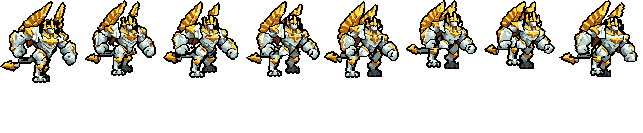
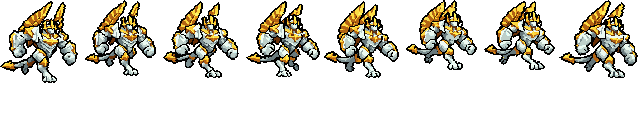
league_galio run: Codex redraws the legs (tools/art/pack_galio_run.py, RUN_PROMPT.md); Codex's first run until then
Every run leg built from the idle's standing legs read as deformed (bone lines, pasted parts, row shear, whole legs
slid - 「腿部变形？」「还是变形啊」「不还是变形？」「看不到这里变形吗」): standing legs moved about are still standing
legs. pack_galio_run.py packs the 8 run frames with the legs taken away, guide skeletons of both legs alternating (red
near / blue far: hip - knee - hock - toe, 8 phases, the far leg 4 on, a row higher), Codex's own near leg boxed as the
leg to draw and league_alistar's run as the beast-leg reference -> dist/galio_packs/galio_run_pack.zip. rig_galio.py
keeps the pack's cut (RUN_CUT / RUN_KEEP / RUN_TAILX, to_can) and drops run_legs, so the sheet carries Codex's first run
until the redo comes back; ppu_hd --check clean.

diff --git a/tools/art/rig_galio.py b/tools/art/rig_galio.py
@@ -16,7 +16,7 @@ one pixel a square). Here, for every frame:
     them, knuckle creases cut in (Codex's silhouette kept, no ground showing round a smaller fist);
   * idle = the design breathing (the upper body BREATH rows up over the legs and the tail), hit = the design moved 2 and
     1 squares back.
-Then the run's legs are redrawn (run_legs: Codex's never crossed) and every frame is brought down twice: for the 1x
+Then every frame is brought down twice: for the 1x
 sheet (down: 2 x 2 blocks, the face kept) and for the game (dense: 1.5 squares a game pixel, pixel_down.pixelate),
 written to assets/source/ppu/galio_<tag>.png + .json (ppu_hd.py's drawn strips; python tools/art/ppu_hd.py --hero galio
 then adds the hd_ / lo_ tags). Drawn at PPU 2.0 (76 squares crown to soles = 38 game rows, 52 with the wings); shown at
@@ -26,7 +26,6 @@ then adds the hd_ / lo_ tags). Drawn at PPU 2.0 (76 squares crown to soles = 38 
 """
 import argparse
 import io
-import math
 import json
 import os
 import subprocess
@@ -42,7 +41,6 @@ sys.path.insert(0, os.path.join(ROOT, ".claude", "skills", "tfm2-hero-mod", "scr
 sys.path.insert(0, HERE)
 import design_galio_hd as DG  # noqa: E402
 import pixel_down as PD  # noqa: E402
-import rigkit as K  # noqa: E402
 import strips as G  # noqa: E402
 
 SRC = os.path.join(ROOT, "assets", "source", "galio")
@@ -390,110 +388,19 @@ def down(can):
 
 
 # ------------------------------------------------------------------------------------------------ the run's legs
-# Codex's run kept the light leg forward and the dark one back in all 8 frames (the user: 「走路没有交叉步」). Legs drawn
-# along bones read as foreign legs (「腿部变形？」「还是变形啊 你不自己review的吗」), and the design's legs slanted by row
-# shear were deformed too (「不还是变形？」), so the run steps on the design's own two legs exactly as the idle has them
-# (thighs, gold knee guards, shins, the clawed foot), each moved whole - a few px forward and back, lifted as it swings
-# - as the approved heavy runs do (league_braum, league_nautilus, league_gragas, league_alistar: leg shapes kept, never
-# turned); the near foot mirrored (claws forward) and the far leg on the same foot a step darker, the far leg four
-# phases on and drawn first, the outline closed where the cut took it; Codex's upper body, fists and tail kept over
-# them, the tail carried to the hips. Numbers in game pixels from the pivot (x right, y down); PPU squares each.
-RUN_CUT = -2                     # rows from RUN_CUT down are redrawn (the legs, the tail's root) ...
+# Codex's run kept the light leg forward and the dark one back in all 8 frames (the user: 「走路没有交叉步」). Every leg
+# built here from the idle's standing legs read as deformed (bone lines, pasted parts, row shear, whole legs slid:
+# 「腿部变形？」「还是变形啊」「不还是变形？」「看不到这里变形吗」), so Codex redraws the legs of the 8 run frames, alternating
+# (tools/art/pack_galio_run.py, assets/source/galio/RUN_PROMPT.md); until then the run is Codex's first one. The
+# pack's cut: Codex's upper body kept above game row RUN_CUT, the fists and the tail below it.
+RUN_CUT = -2                     # rows from RUN_CUT down are the legs ...
 RUN_KEEP = (9, 0, -15, -1)       # ... but the front fist (right of 9, down to row 0) and the back one (left of -15, to -1)
-RUN_TAILX = -13                  # Codex's tail kept left of this column
-RUN_LEGS = {"near": [(66, 81, 35, 50), (82, 95, 35, 47), (96, 103, 28, 48)],    # design rows r0..r1, columns c0..c1
-            "far": [(66, 81, 51, 64), (82, 95, 48, 64), (96, 103, 49, 71)]}
-RUN_ANKLE = {"near": 95, "far": 96}   # the design row from which the foot moves whole
-RUN_AXIS = 40                    # the near shin's middle column: its foot mirrored about it
-RUN_FAR_FOOT = (15, -1)          # the far leg's foot: the near one (its own is a dark lump with a white speck at this
-                                 # size) moved under the far shin and a row up, a step darker (RUN_DARKER)
-RUN_DARKER = {(236, 251, 241): (190, 208, 202), (244, 250, 246): (190, 208, 202), (190, 208, 202): (124, 143, 145),
-              (149, 169, 168): (103, 120, 123), (124, 143, 145): (103, 120, 123), (103, 120, 123): (60, 73, 78)}
-RUN_RING = 72                    # the legs' own outline ring from this design row down (above it the body covers them)
-# each leg's step over 8 phases, game px from its place in the idle: (x, lift) - planted ahead and sliding back under
-# him (0-4), lifted and carried forward (5-7); the far leg 4 phases on. Whole legs moved, never slanted: the approved
-# heavy runs (league_braum, league_nautilus, league_gragas, league_alistar) step their legs a few px, shapes kept
-RUN_PH = [(3.0, 0), (1.5, 0), (0.0, 0), (-1.5, 0), (-3.0, 0), (-2.0, 1.5), (0.0, 2.5), (2.0, 1.5)]
+RUN_TAILX = -13                  # and the tail left of this column
 
 
 def to_can(x, y):
     """Game pixels from the pivot -> canvas coordinates (the pivot square's corner: down()'s 1x grid)."""
     return PIV_X - 0.5 + PPU * x, SOLE - FEET * PPU + PPU * y
-
-
-def run_pieces():
-    """The design's two legs on the canvas: {name: leg} - each its own squares and only the outline round them."""
-    idle = on_canvas(design())
-    H, W = idle.shape[:2]
-    yy, xx = np.mgrid[0:H, 0:W]
-    x0, y0 = DESIGN_AT
-    dr, dc = yy - y0, xx - x0
-    out = {}
-    for name, boxes in RUN_LEGS.items():
-        m = np.zeros((H, W), bool)
-        for r0, r1, c0, c1 in boxes:
-            m |= (dr >= r0) & (dr <= r1) & (dc >= c0) & (dc <= c1)
-        leg = np.where(m[..., None], idle, 0).astype(np.uint8)
-        op = leg[..., 3] > 0
-        light = op & (leg[..., :3].astype(int).sum(-1) >= 70)
-        leg[op & ~light & ~ndimage.binary_dilation(light, structure=np.ones((3, 3)), iterations=2)] = 0
-        out[name] = leg
-    near, far = out["near"], out["far"]
-    foot = near.copy()
-    foot[:y0 + RUN_ANKLE["near"]] = 0
-    near[y0 + RUN_ANKLE["near"]:] = 0
-    ys, xs = np.nonzero(foot[..., 3])
-    xs = 2 * (x0 + RUN_AXIS) - xs
-    near[ys, xs] = foot[ys, 2 * (x0 + RUN_AXIS) - xs]
-    far[y0 + RUN_ANKLE["far"]:] = 0
-    dx, dy = RUN_FAR_FOOT
-    dark = foot[ys, 2 * (x0 + RUN_AXIS) - xs].copy()
-    for c, d in RUN_DARKER.items():
-        dark[(dark[:, :3] == c).all(-1), :3] = d
-    far[ys + dy, xs + dx] = dark
-    return out
-
-
-def run_legs(can, k, legs=None):
-    """A run frame's canvas with the legs redrawn at phase k (the far leg k + 4)."""
-    legs = legs or run_pieces()
-    H, W = can.shape[:2]
-    yy, xx = np.mgrid[0:H, 0:W]
-    x0, y0 = to_can(0, 0)
-    rx, ry = np.floor((xx + 0.5 - x0) / PPU), np.floor((yy + 0.5 - y0) / PPU)
-    fx, fy, bx, by = RUN_KEEP
-    keep = (rx >= fx) & (ry <= fy) | (rx <= bx) & (ry <= by)
-    upper = can.copy()
-    upper[(ry >= RUN_CUT) & ~keep] = 0
-    zone = (ry >= RUN_CUT - 4) & (rx < RUN_TAILX)
-    tail = np.where(zone[..., None], can, 0).astype(np.uint8)
-    upper[zone] = 0
-    out = tail.copy()
-    # the tail's root: from Codex's tail (left of RUN_TAILX) to the near hip, 2 game rows in its greys
-    edge = int(math.floor(to_can(RUN_TAILX, 0)[0])) - 1
-    ys = np.nonzero(tail[:, edge, 3])[0]
-    if len(ys):
-        mid = (ys.min() + ys.max()) // 2
-        r0, r1 = int(mid - PPU), int(mid + PPU)
-        c0, c1 = edge + 1, DESIGN_AT[0] + RUN_LEGS["near"][0][2] + 2
-        out[r0:mid, c0:c1] = (124, 143, 145, 255)
-        out[mid:r1, c0:c1] = (103, 120, 123, 255)
-        out[r0 - int(PPU):r0, c0:c1] = (*OUTLINE, 255)
-        out[r1:r1 + int(PPU), c0:c1] = (*OUTLINE, 255)
-    y_d = DESIGN_AT[1]
-    for name, ph in (("far", RUN_PH[(k + 4) % 8]), ("near", RUN_PH[k])):
-        dx, lift = ph
-        leg = legs[name]
-        sw = K.shifted(leg, int(round(dx * PPU)), -int(round(lift * PPU)))
-        m = sw[..., 3] > 0
-        light = m & (sw[..., :3].astype(int).sum(-1) >= 70)
-        ring = ndimage.binary_dilation(light, iterations=int(PPU)) & ~m      # only where the cut lost the outline
-        ring[:y_d + RUN_RING] = False
-        out[ring] = (*OUTLINE, 255)
-        out[m] = sw[m]
-    K.put(out, upper, 0, 0)
-    out[SOLE + 1:] = 0
-    return specks(pinholes(close_all(out)))
 
 
 def dense(can, one):
@@ -539,14 +446,10 @@ def main():
     ap.add_argument("--review", help="write every tag's dense frames at 4x on magenta here")
     a = ap.parse_args()
     acts = actions()
-    legs = run_pieces()
     sheet = {}
     for tag, frames in acts.items():
         ones, hds = [], []
-        for k, (can, t) in enumerate(frames):
-            if tag == "run":
-                can = run_legs(can, k, legs)
-                frames[k] = (can, t)
+        for can, t in frames:
             one = down(can)
             ones.append((one, round(t, 3)))
             hds.append(dense(can, one))

diff --git a/tools/art/pack_galio_run.py b/tools/art/pack_galio_run.py
@@ -1,0 +1,152 @@
+#!/usr/bin/env python3
+"""Galio's run redo pack for Codex (assets/source/galio/RUN_PROMPT.md): the 8 run frames with the legs alternating.
+
+    python tools/art/pack_galio_run.py [--out dist/galio_packs/galio_run_pack]
+
+Codex's step-2 run (assets/source/galio/codex_strips/galio_run_*) kept the light leg forward and the dark one back in all
+8 frames (the user: 「走路没有交叉步」); legs built from the idle's standing legs read as deformed three times over (bone
+lines, pasted parts, row shear, whole legs slid: 「腿部变形？」「还是变形啊」「不还是变形？」「看不到这里变形吗」). So
+Codex redraws the legs only, in a running pose, alternating:
+  now/galio_run_<n>.png    the current frame with its legs taken away (upper body, fists, wings, tail: keep them)
+  guide/galio_run_<n>.png  the same with the legs to draw as lines: red = the light near leg, blue = the dark far leg
+                           (hip - knee - hock - toe, a dot on the toe), the ground row, the standing point
+  ref/                     Codex's own near leg from its run (the leg to draw, both legs), the design, Alistar's run
+                           (league_alistar: the approved beast-leg run in the pack, legs alternating)
+Writes <out>/ and <out>.zip.
+"""
+import argparse
+import json
+import math
+import os
+import shutil
+import sys
+
+import numpy as np
+from PIL import Image, ImageDraw
+
+HERE = os.path.dirname(os.path.abspath(__file__))
+ROOT = os.path.dirname(os.path.dirname(HERE))
+sys.path.insert(0, HERE)
+import rig_galio as R  # noqa: E402
+import rigkit as K  # noqa: E402
+
+SRC = os.path.join(ROOT, "assets", "source", "galio")
+DOC = os.path.join(SRC, "RUN_PROMPT.md")
+PX = 7                           # pixels a square, the step-2 pack's grid (219 x 146 squares in 1536 x 1024)
+NEAR_HIP = (-4.5, -3.0)          # game px from the pivot (rig_galio.py's run): the near hip, the far one 7 right, a row up
+FAR_HIP = (2.5, -3.5)
+THIGH, SHIN = 11.0, 11.0         # squares, hip - knee - hock (the hock is the beast leg's back-bent joint)
+# the near leg's 8 phases in squares from its hip: the toe's x, the toe's lift off the ground, the hock from the toe.
+# planted ahead and sliding back (1-4), pushing off (5), lifted behind (6), swung through (7), reaching (8); the far
+# leg four phases on
+PLANT, PUSH, LIFT, TUCK = (-6, -9), (-3, -10), (-2, -8), (-5, -7)
+PHASES = [(11, 0, PLANT), (6, 0, PLANT), (1, 0, PLANT), (-4, 0, PLANT),
+          (-9, 1, PUSH), (-9, 7, LIFT), (1, 6, TUCK), (9, 3, PLANT)]
+RED, BLUE = (255, 40, 40), (40, 110, 255)
+
+
+def can_xy(x, y):
+    """Game px from the pivot -> canvas squares (rig_galio.to_can)."""
+    return R.to_can(x, y)
+
+
+def leg_points(hip_gp, k):
+    hx, hy = can_xy(*hip_gp)
+    toe_dx, lift, (hdx, hdy) = PHASES[k]
+    toe = (hx + toe_dx, R.SOLE + 0.5 - lift + (hy - can_xy(*NEAR_HIP)[1]))
+    hock = (toe[0] + hdx, toe[1] + hdy)
+    knee, hock = K.elbow((hx, hy), hock, THIGH, SHIN, bend=-1)
+    if knee[0] < min(hx, hock[0]):
+        knee, hock = K.elbow((hx, hy), hock, THIGH, SHIN, bend=1)
+    return [(hx, hy), knee, hock, toe]
+
+
+def upper_only(can):
+    """The run canvas without its legs (rig_galio.run_legs's cut: the fists and the tail kept)."""
+    H, W = can.shape[:2]
+    yy, xx = np.mgrid[0:H, 0:W]
+    x0, y0 = R.to_can(0, 0)
+    rx, ry = np.floor((xx + 0.5 - x0) / R.PPU), np.floor((yy + 0.5 - y0) / R.PPU)
+    fx, fy, bx, by = R.RUN_KEEP
+    keep = (rx >= fx) & (ry <= fy) | (rx <= bx) & (ry <= by) | (rx < R.RUN_TAILX)
+    out = can.copy()
+    out[(ry >= R.RUN_CUT) & ~keep] = 0
+    return out
+
+
+def big(a, bg=None):
+    im = Image.fromarray(a).resize((a.shape[1] * PX, a.shape[0] * PX), Image.NEAREST)
+    canvas = Image.new("RGBA", (1536, 1024), bg or (0, 0, 0, 0))
+    canvas.alpha_composite(im, (0, 0))
+    return canvas
+
+
+def draw_guide(img, legs):
+    d = ImageDraw.Draw(img)
+    gy = (R.SOLE + 1) * PX
+    d.line([(0, gy), (1536, gy)], fill=RED, width=2)
+    px = (R.PIV_X + 0.5) * PX
+    d.line([(px - 12, gy - 12), (px + 12, gy + 12)], fill=BLUE, width=2)
+    d.line([(px - 12, gy + 12), (px + 12, gy - 12)], fill=BLUE, width=2)
+    for pts, col in legs:
+        P = [(x * PX, y * PX) for x, y in pts]
+        d.line(P, fill=col, width=5, joint="curve")
+        for x, y in P:
+            d.ellipse([x - 6, y - 6, x + 6, y + 6], outline=col, width=3)
+        x, y = P[-1]
+        d.ellipse([x - 9, y - 9, x + 9, y + 9], fill=col)
+    return img
+
+
+def main():
+    ap = argparse.ArgumentParser(description=__doc__, formatter_class=argparse.RawDescriptionHelpFormatter)
+    ap.add_argument("--out", default=os.path.join(ROOT, "dist", "galio_packs", "galio_run_pack"))
+    a = ap.parse_args()
+    out = a.out
+    if os.path.isdir(out):
+        shutil.rmtree(out)
+    for sub in ("now", "guide", "ref"):
+        os.makedirs(os.path.join(out, sub))
+    table, pal = R.lut()
+    cells = json.load(open(os.path.join(R.CODEX, "cells.json"), encoding="utf-8"))
+    runs = sorted([f for f in cells["frames"] if f["tag"] == "run"], key=lambda f: f["index"])
+    for k, f in enumerate(runs):
+        can = R.frame("run", f["index"] + 1, table, pal)
+        up = upper_only(can)
+        big(up).save(os.path.join(out, "now", f"galio_run_{k + 1}.png"))
+        legs = [(leg_points(FAR_HIP, (k + 4) % 8), BLUE), (leg_points(NEAR_HIP, k), RED)]
+        g = big(up, (255, 255, 255, 255))
+        draw_guide(g, legs).convert("RGB").save(os.path.join(out, "guide", f"galio_run_{k + 1}.png"))
+    # the leg to draw: Codex's own near leg in its run frame 1 (the light leg, planted ahead), boxed on the whole frame
+    can = R.frame("run", runs[0]["index"] + 1, table, pal)
+    ref = big(can, (255, 255, 255, 255))
+    x0, y0 = R.to_can(0, 0)
+    box = [(x0 + R.PPU * -3) * PX, (y0 + R.PPU * -7) * PX, (x0 + R.PPU * 14) * PX, (R.SOLE + 2) * PX]
+    ImageDraw.Draw(ref).rectangle(box, outline=RED, width=4)
+    ref.crop((int(box[0]) - 280, int(box[1]) - 420, int(box[2]) + 140, int(box[3]) + 14)).convert("RGB").save(
+        os.path.join(out, "ref", "galio_leg_from_codex_run.png"))
+    d = R.design()
+    Image.fromarray(d).resize((d.shape[1] * PX, d.shape[0] * PX), Image.NEAREST).save(
+        os.path.join(out, "ref", "galio_design.png"))
+    # Alistar's run (1x frames, 6x), the approved beast-leg run: legs alternating, hooves stepping
+    sys.path.insert(0, HERE)
+    from preview_garen import frames_of, load
+    sp = load(os.path.join(ROOT, "league", "champions", "league_alistar"))
+    fs = [f for f, _ in frames_of(sp, "run")]
+    bb = None
+    for f in fs:
+        b = f.getbbox()
+        bb = b if bb is None else (min(bb[0], b[0]), min(bb[1], b[1]), max(bb[2], b[2]), max(bb[3], b[3]))
+    fs = [f.crop(bb) for f in fs]
+    w, h = fs[0].size
+    strip = Image.new("RGBA", (len(fs) * (w + 2) * 6, h * 6), (255, 255, 255, 255))
+    for i, f in enumerate(fs):
+        strip.alpha_composite(f.resize((w * 6, h * 6), Image.NEAREST), (i * (w + 2) * 6, 0))
+    strip.save(os.path.join(out, "ref", "alistar_run_reference.png"))
+    shutil.copy(DOC, os.path.join(out, "RUN_PROMPT.md"))
+    zp = shutil.make_archive(out, "zip", out)
+    print(f"{zp}: now/ guide/ x{len(runs)}, ref/ 3")
+
+
+if __name__ == "__main__":
+    main()

diff --git a/assets/source/galio/RUN_PROMPT.md b/assets/source/galio/RUN_PROMPT.md
@@ -1,0 +1,28 @@
+# 加里奥：重画跑步 8 帧的腿（给 Codex 的提示词）
+
+> 你上次画的跑步（`galio_run_1..8`）上半身、翅膀、拳头、尾巴都很好，**只有腿不对**：8 帧里都是亮色的近侧腿在前、暗色的远侧腿在后，两条腿从来不交换，看起来没有交叉步。这次**只重画腿**，让两条腿轮流在前。
+>
+> - `now/galio_run_<n>.png`：你上次那一帧，**腿已经去掉**。上半身、头、翅膀、两只拳头、尾巴**一格都不要动**，原样保留（同一个格子、同一个位置）。
+> - `guide/galio_run_<n>.png`：同一帧加了要画的腿的**骨架线**：**红线 = 亮色近侧腿**，**蓝线 = 暗色远侧腿**；每条线从胯 → 膝 → 反关节（脚跟）→ 脚尖，实心圆点 = 脚尖。腿的**位置、方向、抬多高照骨架线**。最下面的红横线是地面（第 140 行的下边），蓝叉是站位点。线只用来对位，**不要画进图里**。
+> - `ref/galio_leg_from_codex_run.png`：你上次画的第 1 帧，**红框里那条亮色近侧腿**就是要画的腿——两条腿都照它画：粗石头大腿带金色护板、金色护膝、长长的反关节小腿、三爪石头脚，爪子朝前（画面右边）。**远侧腿是同一条腿，颜色暗一档**（用造型里远侧腿的深灰色），比近侧腿略高一格（3/4 角度）。
+> - `ref/alistar_run_reference.png`：游戏里已经认可的阿利斯塔跑步（也是兽腿）：腿形状不变、两条腿轮流迈步、脚抬起来再落下。动作节奏照它。
+> - `ref/galio_design.png`：造型（颜色、描边、像素风照它）。
+>
+> **每帧两条腿的动作**（和骨架线一致）：
+>
+> | 帧 | 亮色近侧腿（红线） | 暗色远侧腿（蓝线） |
+> |---|---|---|
+> | 1 | 往前迈到最远，脚跟着地 | 在最后面，脚尖蹬地 |
+> | 2 | 踩地，脚在身体前面 | 抬起往后，离地 |
+> | 3 | 踩地，脚在身体正下方 | 抬起，从身体下面往前摆 |
+> | 4 | 踩地，脚滑到身体后面 | 往前伸，快要落地 |
+> | 5 | 在最后面，脚尖蹬地 | 往前迈到最远，脚跟着地 |
+> | 6 | 抬起往后，离地 | 踩地，脚在身体前面 |
+> | 7 | 抬起，从身体下面往前摆 | 踩地，脚在身体正下方 |
+> | 8 | 往前伸，快要落地 | 踩地，脚滑到身体后面 |
+>
+> - 两条腿**粗细、长短、形状一样**，不要画成一条粗一条细；腿的形状在 8 帧里保持一致，只是摆的角度不同（不要拉长、压扁、拉斜）。
+> - 每格 7 × 7 px 一个纯色方块，和 `now/` 同一个网格；**只用造型的颜色**；外轮廓 2 格粗的近黑描边；不要抖动、渐变、抗锯齿、半透明。
+> - 踩地的那只脚的脚底在红横线上（远侧腿的脚底高一格）；抬起的脚离开地面。
+> - 交付到 `outputs/galio-run/`：每帧 `galio_run_<n>.png`（1536×1024、透明背景、和 `now/` 同一个格子）+ `galio_run_<n>_1x.png`（1 像素 1 格，必须和大图逐格一致）；生图原稿放 `raw/`；**最后**写 `HANDOFF.md`；打成一个 zip（`galio_run_done.zip`）。
+> - 生图后按格子取回（每格取多数颜色），不要用脚本缩放；画后一帧时附上前一帧，让两条腿一样大。
